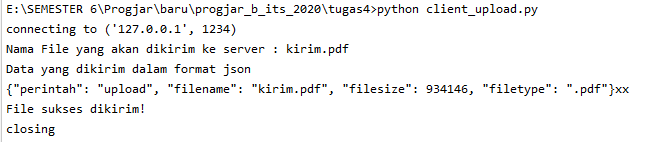
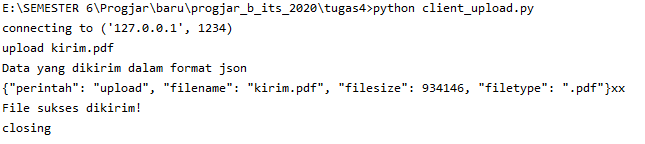
up

diff --git a/tugas4/client_download.py b/tugas4/client_download.py
@@ -1,0 +1,38 @@
+import json
+import socket
+
+# Create a TCP/IP socket
+sock = socket.socket(socket.AF_INET, socket.SOCK_STREAM)
+
+# Connect the socket to the port where the server is listening
+server_address = ('127.0.0.1', 1234)
+print(f"connecting to {server_address}")
+sock.connect(server_address)
+
+#input
+mess = input()
+cstring = mess.split(" ")
+
+try:
+    data = json.dumps(dict(perintah=cstring[0], filename=cstring[1]))+"xx"
+
+    print("Data yang dikirim dalam format json")
+    print(data)
+
+    #dikirimi data ada arau tidak
+    sock.send(data.encode())
+    data = sock.recv(1000).decode()
+
+    #jika sudah ada
+    if data!="null":
+        with open("hasil_download_"+cstring[1], 'wb') as file_receive:
+            while True:
+                diterima = sock.recv(1024)
+                if not diterima:
+                    print("File berhasil didownload!")
+                    break
+                file_receive.write(diterima)
+        file_receive.close()
+finally:
+    print("closing")
+    sock.close()

diff --git a/tugas4/client_upload.py b/tugas4/client_upload.py
@@ -11,12 +11,13 @@ print(f"connecting to {server_address}")
 sock.connect(server_address)
 
 #Input
-mess = input("Nama File yang akan dikirim ke server : ")
+mess = input()
+cstring = mess.split(" ")
 
 try:
-    size = os.path.getsize(os.path.abspath(mess))
-    filename, file_extension = os.path.splitext(os.path.abspath(mess))
-    data = json.dumps(dict(perintah="upload", filename=mess, filesize=size, filetype=file_extension))+"xx"
+    size = os.path.getsize(os.path.abspath(cstring[1]))
+    filename, file_extension = os.path.splitext(os.path.abspath(cstring[1]))
+    data = json.dumps(dict(perintah=cstring[0], filename=cstring[1], filesize=size, filetype=file_extension))+"xx"
 
     print("Data yang dikirim dalam format json")
     print(data)
@@ -25,7 +26,7 @@ try:
     data = sock.recv(16).decode()
 
     if data == "OK":
-        filee=open(mess,"rb")
+        filee=open(cstring[1],"rb")
         kirim = filee.read(1024)
         while(kirim):
             sock.send(kirim)

diff --git a/tugas4/client_list.py b/tugas4/client_list.py
@@ -10,8 +10,13 @@ server_address = ('127.0.0.1', 1234)
 print(f"connecting to {server_address}")
 sock.connect(server_address)
 
+mess = input()
+
 try:
-    message = json.dumps(dict(perintah="list"))+"xx"
+    message = json.dumps(dict(perintah=mess))+"xx"
+
+    print("Data dan perintah yang dikirim dalam format json")
+    print(message)
 
     sock.sendall(message.encode())
 

diff --git a/tugas4/README.md b/tugas4/README.md
@@ -1,1 +1,120 @@
-Safhira Maharani <br> 05111740000027 <br>
+# Rancanglah sebuah protokol untuk
+
+## Meletakkan File
+
+### Langkah-langkah
+
+* Masukkan input berupa nama file yang akan ditaruh ke server
+* Buat data json yang berisi tentang perintah untuk meletakkan file, nama file, ukuran file dan tipe file
+* Kirim data json ke server dari client
+* Server menerima data json, langsung mengeksekusi sesuai dengan perintah nya yaitu upload
+* Di dalam proses upload, server memanggil objek yang terbentuk dari class Person Machine untuk menghubungkannya ke class Person untuk menyimpan data file ke mydata.dir
+* Open file untuk membuat file baru yang berisi data yang dikirim oleh client
+* Jika data file dan berhasil disimpan akan menghasilkan string "OK"
+
+### Bukti
+* Saat menjalankan client_upload.py. Data dan perintah yang dikirim dalam bentuk json. Upload berhasil dengan mengirimkan file dari client ke server.
+
+![Client](foto/upload1.png)
+
+* Hasil dari server_thread_person.py yang berhasil menyimpan data file dan file, ditandai dengan output "OK"
+
+![Server](foto/upload2.png)
+
+* Data berhasil bertambah dalam mydata.dir
+
+![Bukti](foto/upload4.png)
+
+* Bukti bahwa file berhasil diupload
+
+![Bukti](foto/upload3.png)
+
+## Mengambil File
+
+### Langkah-langkah
+
+* Masukkan input berupa nama file yang akan didownload dari server
+* Buat data json yang berisi tentang perintah untuk mendownload file, nama file
+* Kirim data json ke server dari client
+* Server menerima data json, langsung mengeksekusi sesuai dengan perintah nya yaitu download
+* Di dalam proses download, server memanggil objek yang terbentuk dari class Person Machine untuk menghubungkannya ke class Person untuk mencari data file ke mydata.dir
+* Open file untuk mengirim file ke client
+
+### Bukti
+* Saat menjalankan client_download.py. Data dan perintah yang dikirim dalam bentuk json. Download berhasil dilakukan.
+
+![Client](foto/download1.png)
+
+* Hasil dari server_thread_person.py yang berhasil mencari data file dan file, ditandai dengan terkirimnya file yang direquest oleh client
+
+![Server](foto/download2.png)
+
+* Bukti bahwa file berhasil didownload
+
+![Bukti](foto/download3.png)
+
+## Melihat List File
+
+### Langkah-langkah
+* Buat data json yang berisi tentang perintah untuk melihat daftar list
+* Kirim data json ke server dari client
+* Server menerima data json, langsung mengeksekusi sesuai dengan perintah nya yaitu list
+* Di dalam proses list, server memanggil objek yang terbentuk dari class Person Machine untuk menghubungkannya ke class Person untuk me return daftar data file yang ada dalam mydata.dir
+* Server mengirimkan daftar tersebut ke client
+
+
+### Bukti
+* Saat menjalankan client_list.py. Data dan perintah yang dikirim dalam bentuk json.
+
+![Client](foto/list.png)
+
+* Hasil dari server_thread_person.py yang berhasil me return daftar data file yang ada dalam mydata.dir
+
+![Server](foto/list2.png)
+
+# Dokumentasi dari protokol
+
+```
+PROTOCOL FORMAT
+
+KETENTUAN MEMBACA FORMAT
+string terbagi menjadi 2 bagian, dipisahkan oleh spasi
+COMMAND spasi PARAMETER spasi PARAMETER ...
+
+FITUR
+
+- upload : untuk membuat file yang dikirim oleh client
+  request : upload
+  parameter : (spasi) nama file
+  response : berhasil -> OK
+             gagal -> ERROR
+
+- list : untuk melihat daftar record
+  request: list
+  parameter: tidak ada
+  response: daftar file yang ada
+
+- download : untuk mencari file berdasar nama
+  request: get
+  parameter: (spasi) nama file yang dicari
+  response: file yang dicari dalam bentuk json format
+
+- jika command tidak dikenali akan merespon dengan ERRCMD
+```
+
+# Gunakan format JSON untuk tugas ini
+
+<p> pada tugas ini sudah menggunakan format JSON, dapat dilihat dari screenshoot gambar diatas</p>
+
+# Buat client untuk setiap operasi tersebut
+
+* Untuk operasi meletakkan file -> client_upload.py
+* Untuk operasi mengambil file -> client_download.py
+* Untuk operasi melihat list file -> client_list.py
+
+Hasil screenshoot ada di atas
+
+
+
+
+
